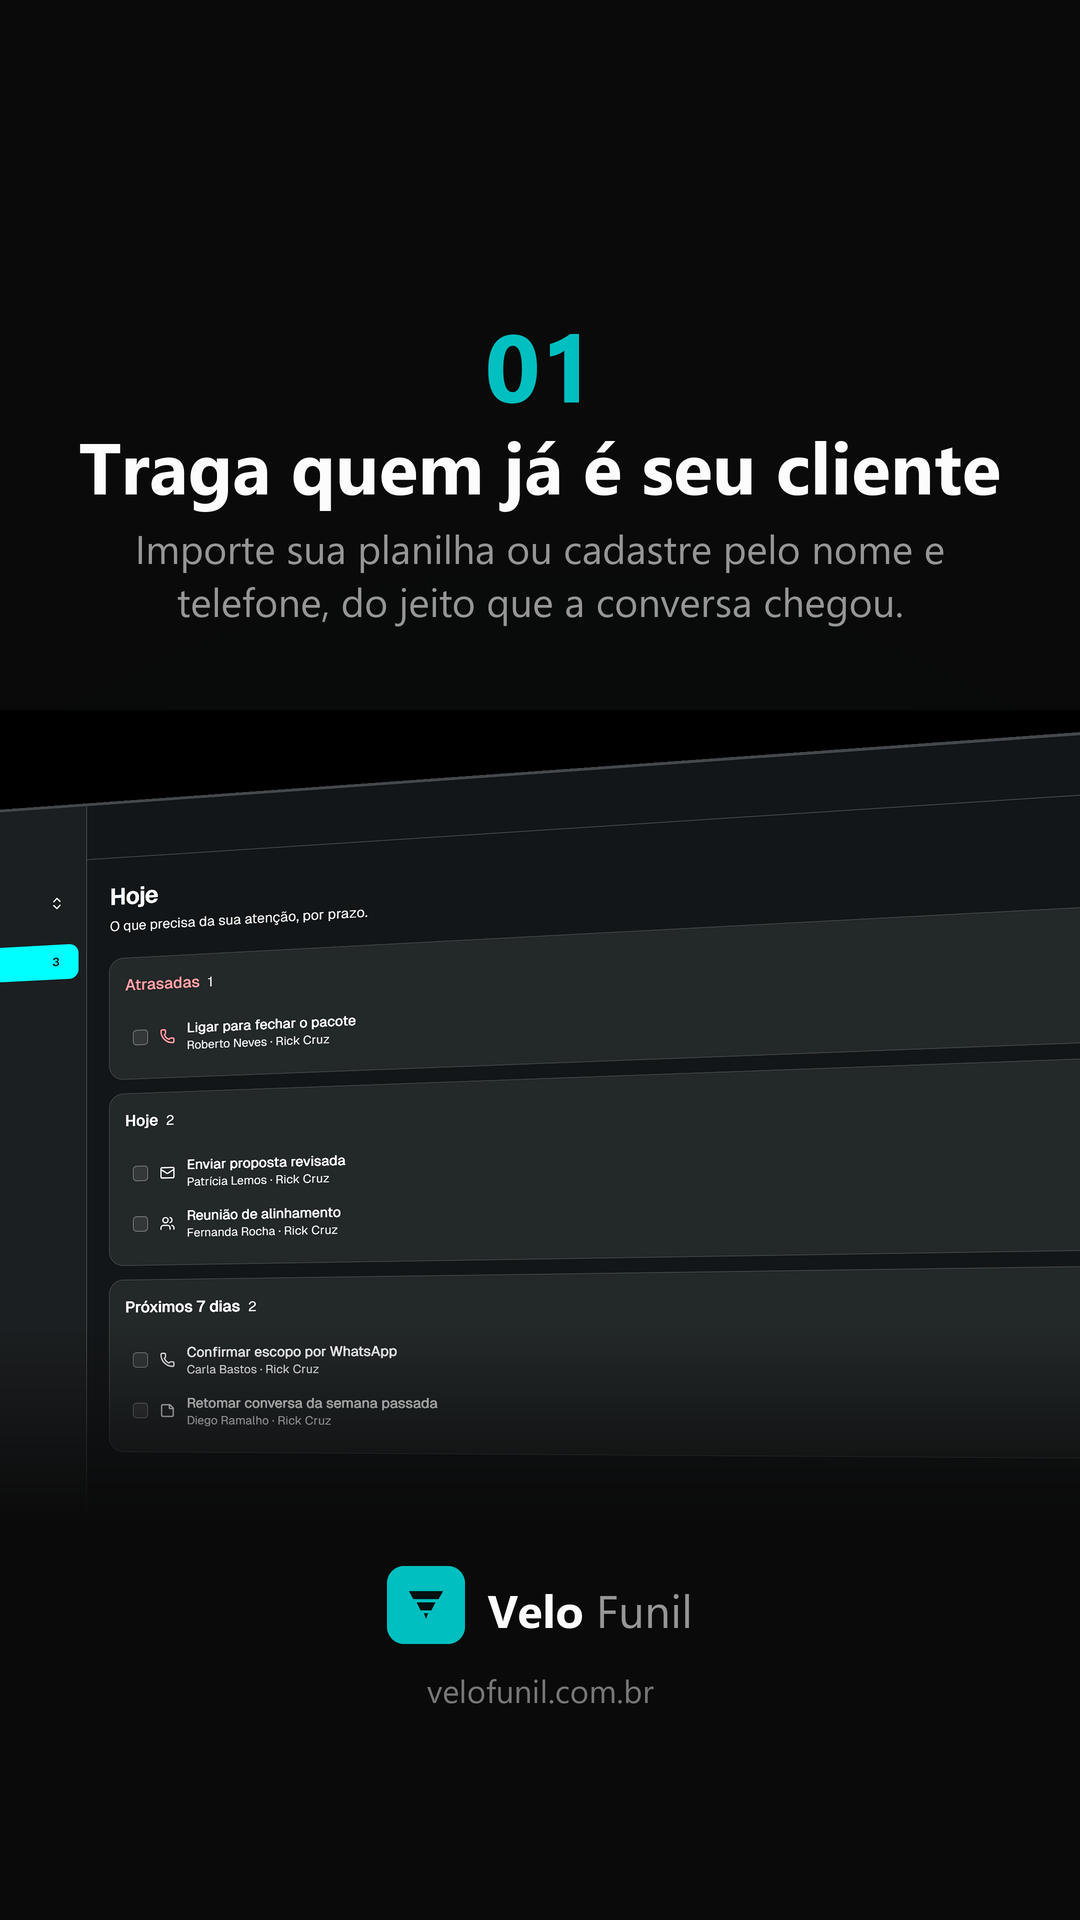
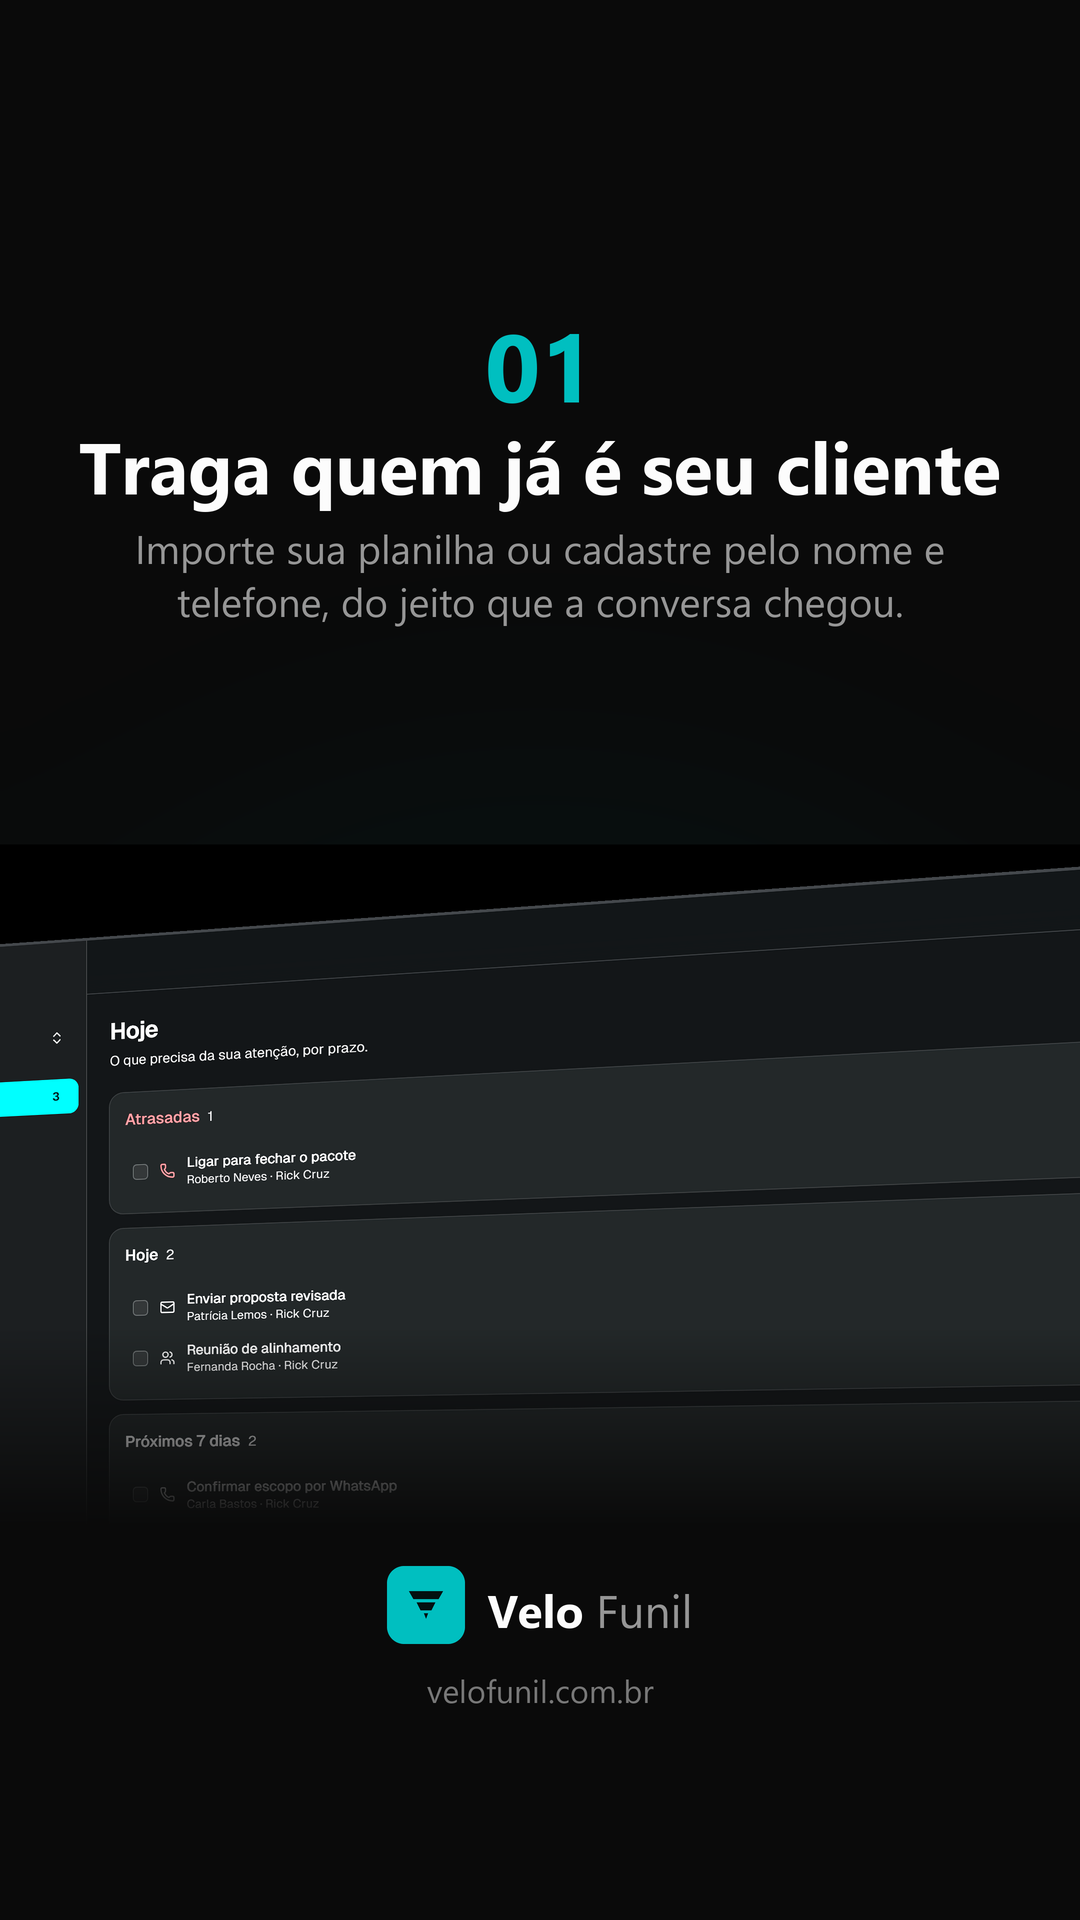
fix(marketing): print encostava na última linha da headline
Reportado com print: "Aqui ele não some." caía sobre a borda superior da
tela do produto.

Medido no gancho antes da correção: o texto terminava em 33,8% da altura e
o print começava em 34,4% — 0,6% de folga, que a olho nu lê como sobreposição.
Foi efeito colateral da correção anterior (que eliminou o vazio morto
recortando a folga da perspectiva): sem aquela margem, o print subiu demais.

Cada composição passa agora o próprio `topo_rel`, calculado a partir de onde
o bloco de texto de fato termina. Não existe valor único que sirva às cinco
telas: o texto de apoio dos passos ocupa mais linhas que a headline do
gancho, então o print precisa começar mais abaixo neles.

Changed region(s): [[0.0, 0.4375, 0.3667, 0.7812], [0.0, 0.5625, 0.0917, 0.5938], [0.3667, 0.7188, 0.3972, 0.75]]

diff --git a/scripts/marketing/gerar-stories.py b/scripts/marketing/gerar-stories.py
@@ -33,6 +33,13 @@ vez de renderizar o SVG porque este ambiente não tem cairosvg nem svglib, e
 trazer dependência nova para desenhar três trapézios custaria mais que o
 problema.
 
+**O print começa depois do texto, com respiro medido.** Ele encostava na
+última linha da headline: medido no gancho, o texto terminava em 33,8% da
+altura e o print começava em 34,4%. Cada composição passa o próprio
+`topo_rel`, calculado a partir de onde o bloco de texto de fato termina —
+não há valor único que sirva às cinco, porque o texto de apoio dos passos
+ocupa mais linhas que o do gancho.
+
 **A copy sai da landing, nunca é inventada aqui.** Os títulos dos passos são
 os mesmos de `components/landing/how-it-works-section.tsx`, que já passaram
 pelo PRD de copy sem jargão. Texto novo escrito direto no criativo divergiria
@@ -278,7 +285,10 @@ def salvar(img, nome):
 def tela_gancho():
     """A dor, com o print como evidência. É a que precisa parar o scroll."""
     img = fundo_com_brilho()
-    img = colar_print(img, "kanban-dark.png")
+    # O print entra DEPOIS do bloco de texto, com respiro medido — ver
+    # RESPIRO_APOS_TEXTO. Antes ele era colado em posição fixa e a última
+    # linha da headline caía sobre a borda da tela.
+    img = colar_print(img, "kanban-dark.png", topo_rel=0.42)
     draw = ImageDraw.Draw(img)
 
     y = SEGURO_TOPO + 30 * ESCALA
@@ -305,7 +315,7 @@ def tela_passo(numero, titulo, apoio, print_nome, arquivo):
     dois não divergirem no primeiro ajuste de copy.
     """
     img = fundo_com_brilho(centro_y=0.62)
-    img = colar_print(img, print_nome, topo_rel=0.37)
+    img = colar_print(img, print_nome, topo_rel=0.44)
     draw = ImageDraw.Draw(img)
 
     y = SEGURO_TOPO + 30 * ESCALA
